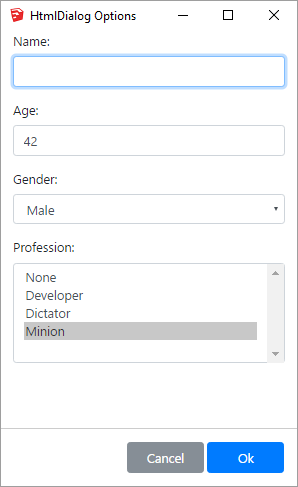
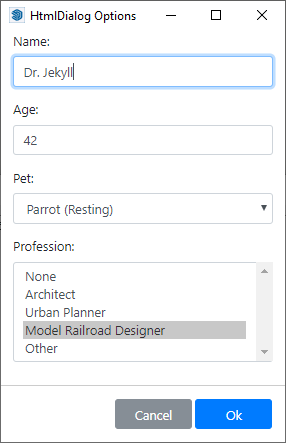
Update the example fields.

diff --git a/src/input_box/main.rb b/src/input_box/main.rb
@@ -26,8 +26,8 @@ module Example::HtmlInputBox
   # Simple example with similar calling signature as UI.inputbox.
   def self.prompt_without_options
     title = 'Tell me about yourself'
-    prompts = ['What is your Name?', 'What is your Age?', 'Gender']
-    defaults = ['Enter name', 42, 'Male']
+    prompts = ['What is your name?', 'What is your age?', 'Pet?']
+    defaults = ['Enter name', 42, 'None']
     results = HtmlUI.inputbox(prompts, defaults, title)
     p results
   end
@@ -35,9 +35,9 @@ module Example::HtmlInputBox
   # Simple example with similar calling signature as UI.inputbox.
   def self.prompt_with_options
     title = 'Tell me about yourself'
-    prompts = ['What is your Name?', 'What is your Age?', 'Gender']
-    defaults = ['Enter name', 42, 'Male']
-    list = ['', '', 'Male|Female']
+    prompts = ['What is your Name?', 'What is your age?', 'Pet?']
+    defaults = ['Enter name', 42, 'Cat']
+    list = ['', '', 'None|Cat|Dog|Other']
     results = HtmlUI.inputbox(prompts, defaults, list, title)
     p results
   end
@@ -51,9 +51,11 @@ module Example::HtmlInputBox
       inputs: [
         HtmlUI::Textbox.new('Name'),
         HtmlUI::Textbox.new('Age', 42),
-        HtmlUI::Dropdown.new('Gender', 'Male', ['Male', 'Female']),
+        HtmlUI::Dropdown.new('Pet', 'Cat', [
+          'None', 'Cat', 'Dog', 'Parrot (Resting)', 'Other'
+        ]),
         HtmlUI::Listbox.new('Profession', 'Minion', [
-          'None', 'Developer', 'Dictator', 'Minion'
+          'None', 'Architect', 'Urban Planner', 'Model Railroad Designer', 'Other'
         ]),
       ]
     }

diff --git a/README.md b/README.md
@@ -13,8 +13,8 @@ It uses [Vue.js](https://vuejs.org/) for data binding and [Bootstrap](https://ge
 ```ruby
   def self.prompt_without_options
     title = 'Tell me about yourself'
-    prompts = ['What is your Name?', 'What is your Age?', 'Gender']
-    defaults = ['Enter name', 42, 'Male']
+    prompts = ['What is your name?', 'What is your age?', 'Pet?']
+    defaults = ['Enter name', 42, 'None']
     results = HtmlUI.inputbox(prompts, defaults, title)
     p results
   end
@@ -25,9 +25,9 @@ It uses [Vue.js](https://vuejs.org/) for data binding and [Bootstrap](https://ge
 ```ruby
   def self.prompt_with_options
     title = 'Tell me about yourself'
-    prompts = ['What is your Name?', 'What is your Age?', 'Gender']
-    defaults = ['Enter name', 42, 'Male']
-    list = ['', '', 'Male|Female']
+    prompts = ['What is your Name?', 'What is your age?', 'Pet?']
+    defaults = ['Enter name', 42, 'Cat']
+    list = ['', '', 'None|Cat|Dog|Other']
     results = HtmlUI.inputbox(prompts, defaults, list, title)
     p results
   end
@@ -44,9 +44,11 @@ It uses [Vue.js](https://vuejs.org/) for data binding and [Bootstrap](https://ge
       inputs: [
         HtmlUI::Textbox.new('Name'),
         HtmlUI::Textbox.new('Age', 42),
-        HtmlUI::Dropdown.new('Gender', 'Male', ['Male', 'Female']),
+        HtmlUI::Dropdown.new('Pet', 'Cat', [
+          'None', 'Cat', 'Dog', 'Parrot (Resting)', 'Other'
+        ]),
         HtmlUI::Listbox.new('Profession', 'Minion', [
-          'None', 'Developer', 'Dictator', 'Minion'
+          'None', 'Architect', 'Urban Planner', 'Model Railroad Designer', 'Other'
         ]),
       ]
     }
